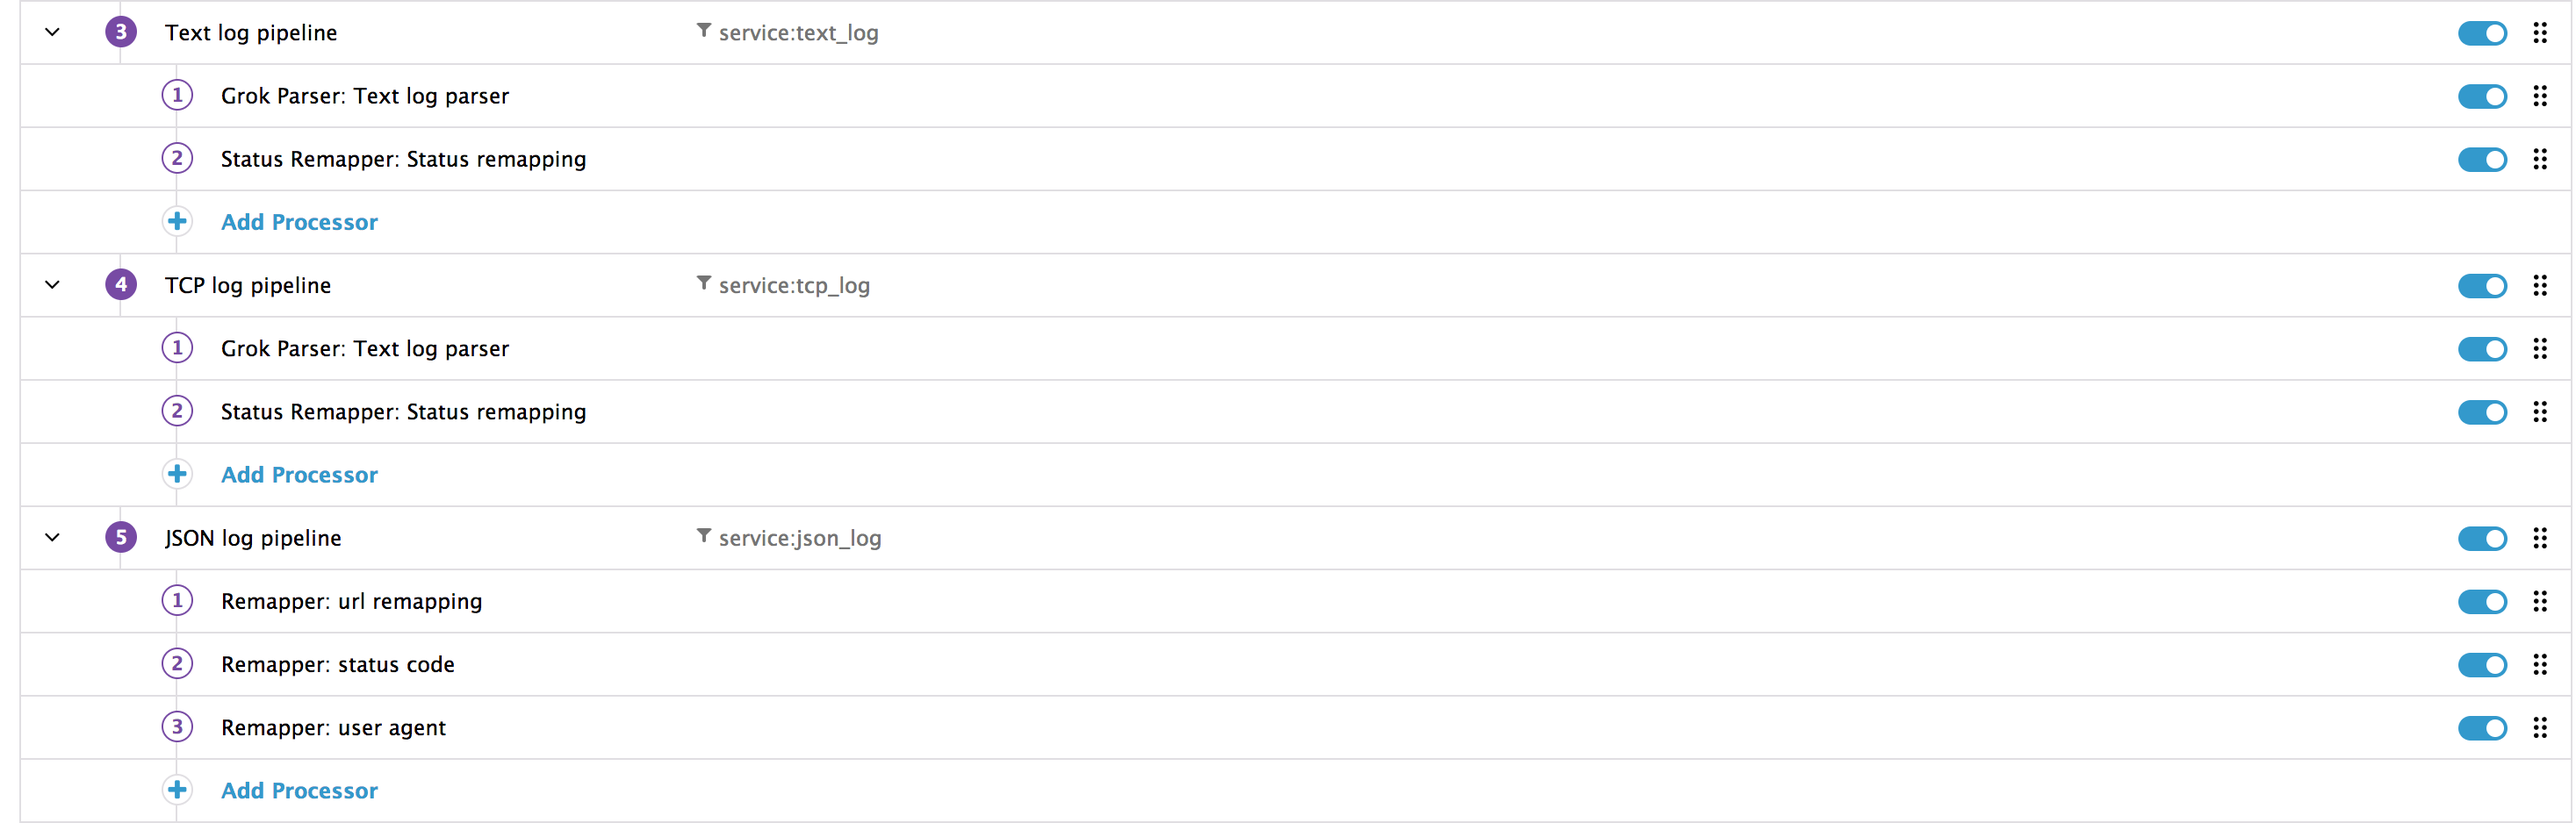
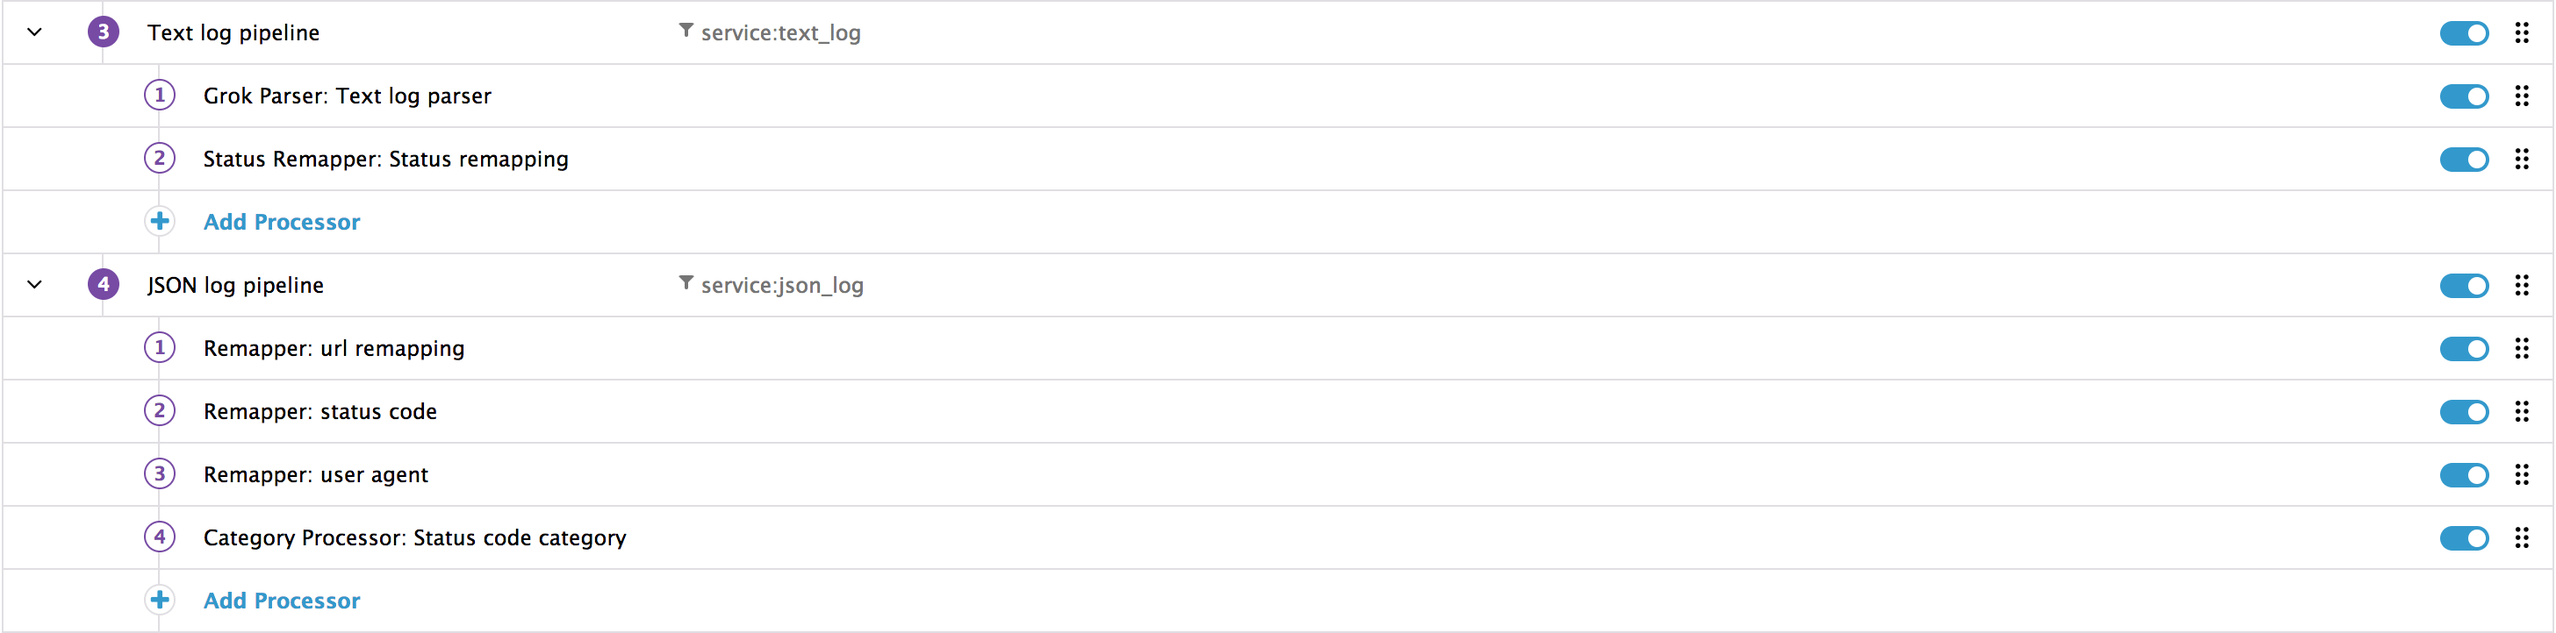
fixing dummy script

diff --git a/workshop/exercise_2/main.py b/workshop/exercise_2/main.py
@@ -30,14 +30,6 @@ user = ['John', 'Jane', 'Bob', 'Alice']
 status_code = ['200','401', '403', '404', '500', '503', '504']
 
 #############
-# Variables #
-#############
-
-TCP_IP = '127.0.0.1'
-TCP_PORT = 10514
-BUFFER_SIZE = 1024
-
-#############
 # Functions #
 #############
 
@@ -55,11 +47,6 @@ def write_text_log(filename):
 	with open(filename, 'a') as f:
 			f.write(log )
 
-	s = socket.socket(socket.AF_INET, socket.SOCK_STREAM)
-	s.connect((TCP_IP, TCP_PORT))
-	s.send(log + '\n')
-	data = s.recv(BUFFER_SIZE)
-	s.close()
 
 def write_json_log(filename):
 	now = datetime.datetime.now()
@@ -81,7 +68,6 @@ def dummy():
 	print('Dummy script started\n')
 	print('text_log.log file path is /vagrant/workshop/exercise_2/text_log.log')
 	print('json_log.log file path is /vagrant/workshop/exercise_2/json_log.log')
-	print('TCP log are sent on the 10514 port through TCP')
 	while(1):
 		write_text_log('./text_log.log')
 		write_json_log('./json_log.log')

diff --git a/workshop/exercise_2/README.md b/workshop/exercise_2/README.md
@@ -64,7 +64,7 @@ This means that the Datadog agent is up and running and is ready to be configure
 
 ## Gathering Data
 
-We have 3 types of log: **full text** | **JSON** | **TCP**. ]We need to configure our agent accordingly: ([Log collection documentation][5])
+We have 2 types of log: **full text** | **JSON** . ]We need to configure our agent accordingly: ([Log collection documentation][5])
 
 To do:
 
@@ -101,13 +101,6 @@ To do:
         source: syslog
         sourcecategory: agent
         tags: workshop:exercise_2, type:datadog-agent
-
-      - type: tcp
-        port: 10514
-        service: tcp_log
-        source: dummy_app
-        sourcecategory: custom
-        tags: workshop:exercise_2, type:tcp_log
     ```
 
 ![log configuration](/workshop/exercise_2/images/log_configuration.png)
@@ -209,12 +202,6 @@ into this log:
     "user": "Alice"
 }
 ```
-
-### TCP logs
-
-1. Clone the Text log pipeline and rename it to TCP log pipeline.
-
-2. Change the pipeline filter value to `service:tcp_log` to apply this pipeline only to TCP logs.
 
 ### Main processing pipeline 
 The current pipelines should look like this:
